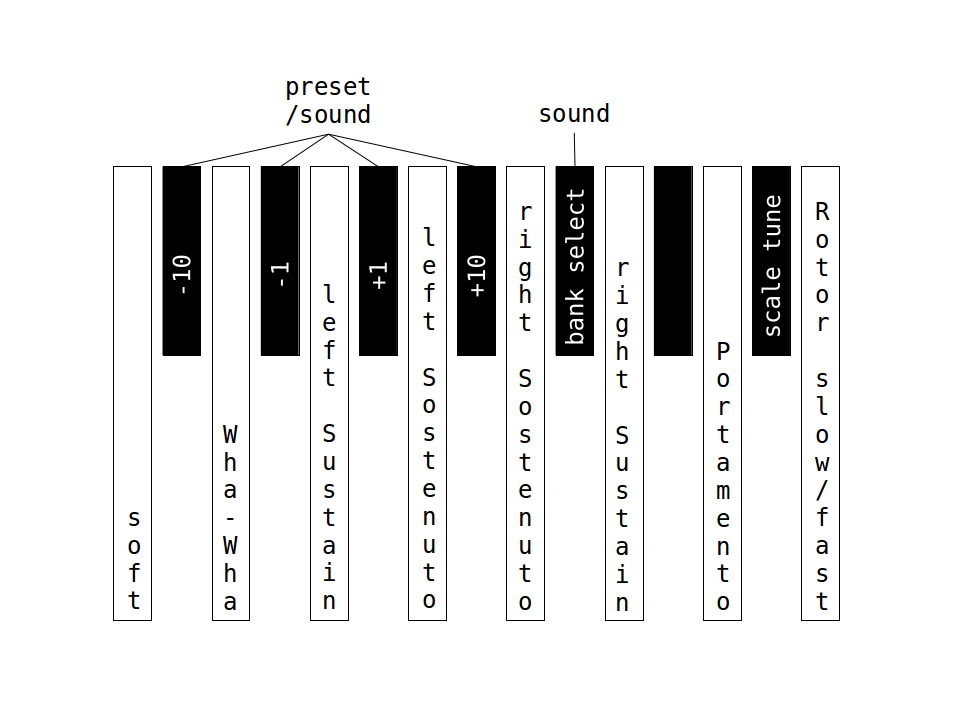
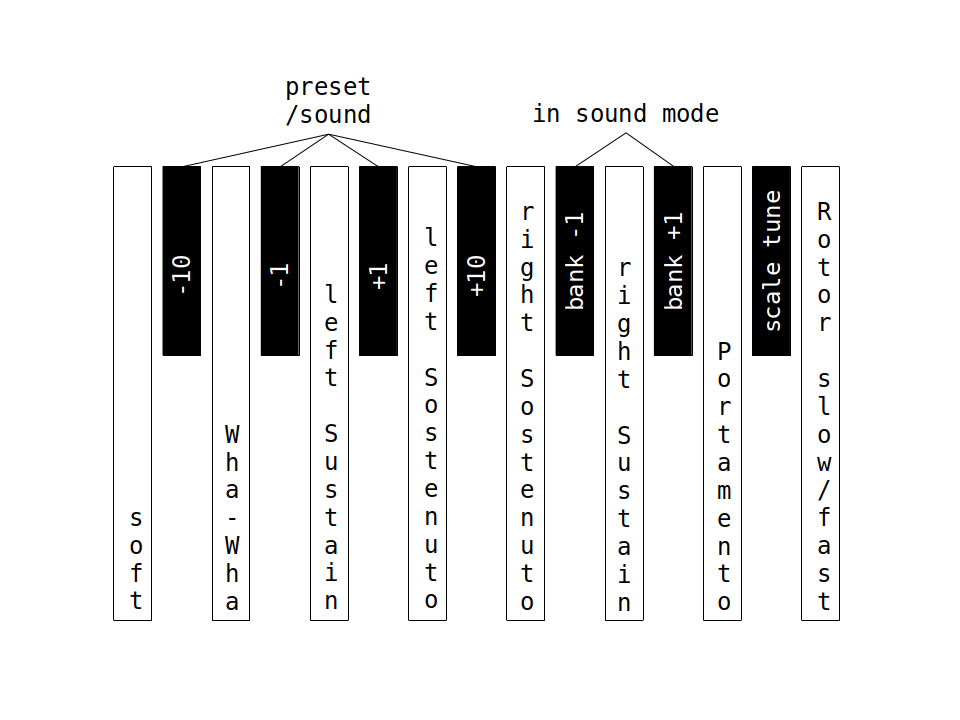
pedal can now cycle bank up *and* down, corrected too long sound names (reason for crashes)

diff --git a/Keyboard_Controller/SonorityXXL.h b/Keyboard_Controller/SonorityXXL.h
@@ -93,6 +93,8 @@ const char * toString(SoXXLBank bank) {
 }
 
 SoXXLBank toSoXXLBank(int index) {
+  if (index < 0)
+    return FXnPerc;
   switch (index) {
     case 1: return Piano;
     case 2: return EPiano;
@@ -217,7 +219,7 @@ PROGMEM const char Bank0Names[][MAX_NAME_LEN+1] = {
 /*64*/ "Sopran Sax",
 /*65*/ "Alto Sax",
 /*66*/ "Tenor Sax",
-/*67*/ "Bariton Sax",
+/*67*/ "Baritone Sax",
 /*68*/ "Oboe",
 /*69*/ "English Horn",
 /*70*/ "Bassoon",
@@ -419,7 +421,7 @@ PROGMEM const char Bank4Names[][MAX_NAME_LEN+1] = {
 /*10*/ "Easy Listening",
 /*11*/ "JSmith 88_ Pc3",
 /*12*/ "JSmith 8_8 Pc3",
-/*13*/ "Joey Defrancesco",
+/*13*/ "Joey Defrncsco",
 /*14*/ "Ballad 2",
 /*15*/ "Jesse Crawford",
 /*16*/ "JoeyDeFran 888",
@@ -873,8 +875,8 @@ PROGMEM const char Bank12Names[][MAX_NAME_LEN+1] = {
 /*30*/ "Tenorhorn",
 /*31*/ "Tenorhorn vbrt",
 /*32*/ "Alphorn",
-/*33*/ "Baritone vibrat",
-/*34*/ "Baritone stacct",
+/*33*/ "Baritone vbrt",
+/*34*/ "Baritone stacc",
 /*35*/ "Tuba",
 /*36*/ "Tuba soft","","","","","","","","","","","",
 "","","","","","","","","","","","","","","","",
@@ -996,7 +998,7 @@ PROGMEM const char Bank16Names[][MAX_NAME_LEN+1] = {
 /*1*/ "Clarinet soft",
 /*2*/ "Clarinet slide",
 /*3*/ "Hugo Clarinet",
-/*4*/ "Hugo Clarinet slide",
+/*4*/ "Hugo Clr slide",
 /*5*/ "Clr Tradition",
 /*6*/ "Clr Tradition",
 /*7*/ "Clr Trad soft",
@@ -1106,9 +1108,9 @@ PROGMEM const char Bank19Names[][MAX_NAME_LEN+1] = {
 /*8*/ "E-Bass 5 Pick1",
 /*9*/ "E-B.5 Pck1 n-o",
 /*10*/ "E-Bass 6 Pick2",
-/*11*/ "E-B.6 Pick2 n-o",
+/*11*/ "E-B.6 Pck2 n-o",
 /*12*/ "E-Bass 7",
-/*13*/ "E-Bass 7 repeti",
+/*13*/ "E-Bass 7 repet",
 /*14*/ "E-B.7 note-off",
 /*15*/ "E-B. Fretless",
 /*16*/ "E-Bass Slap1",
